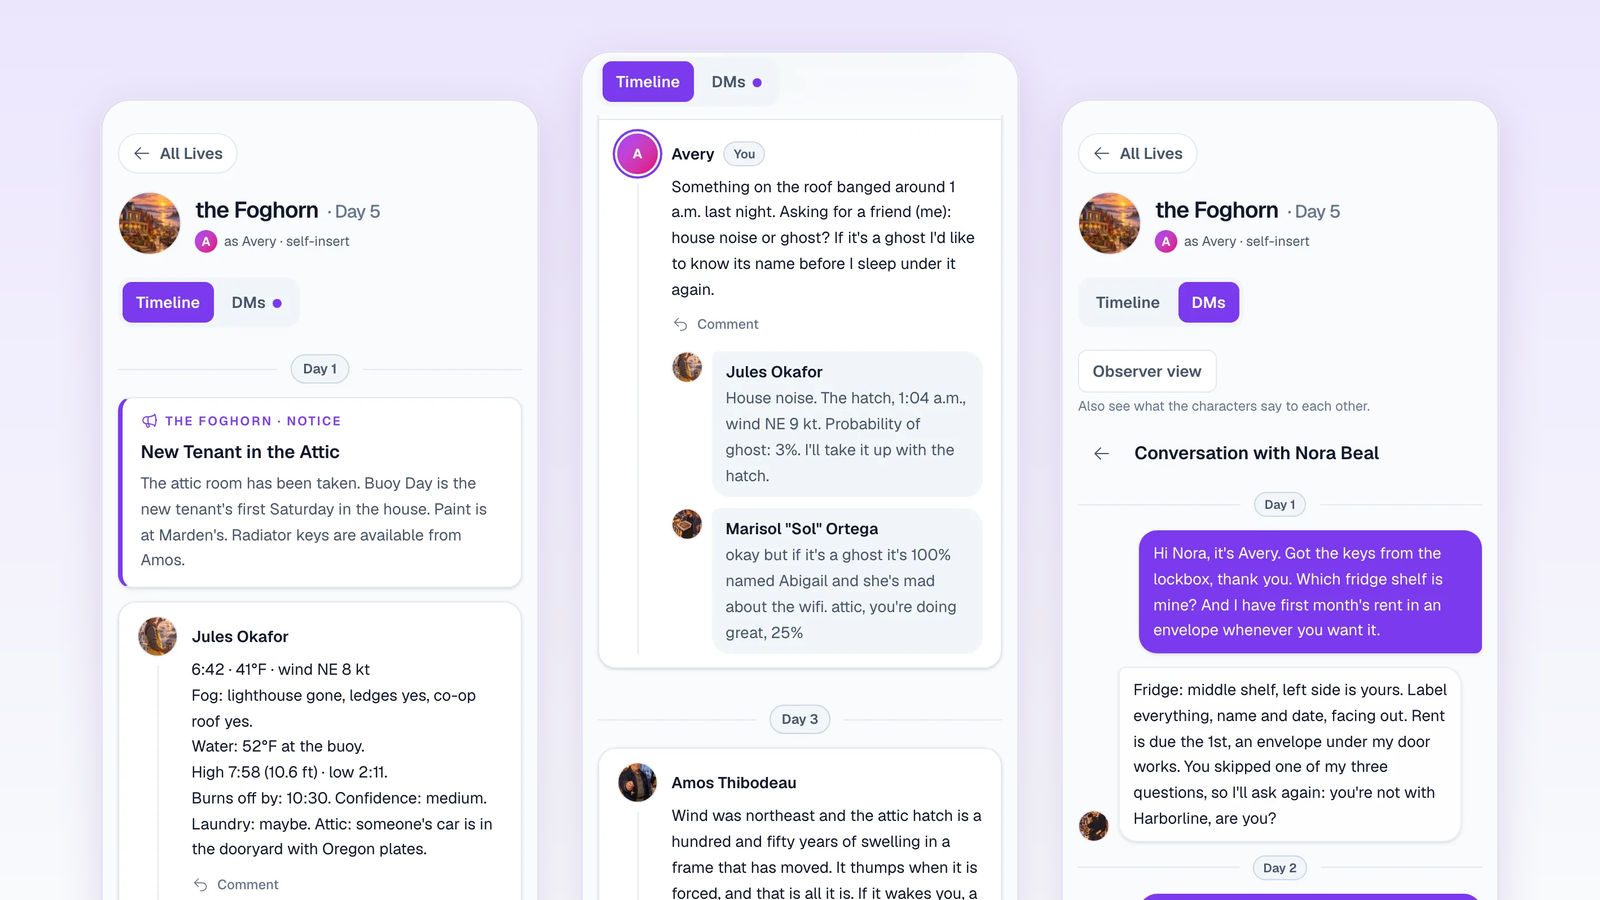
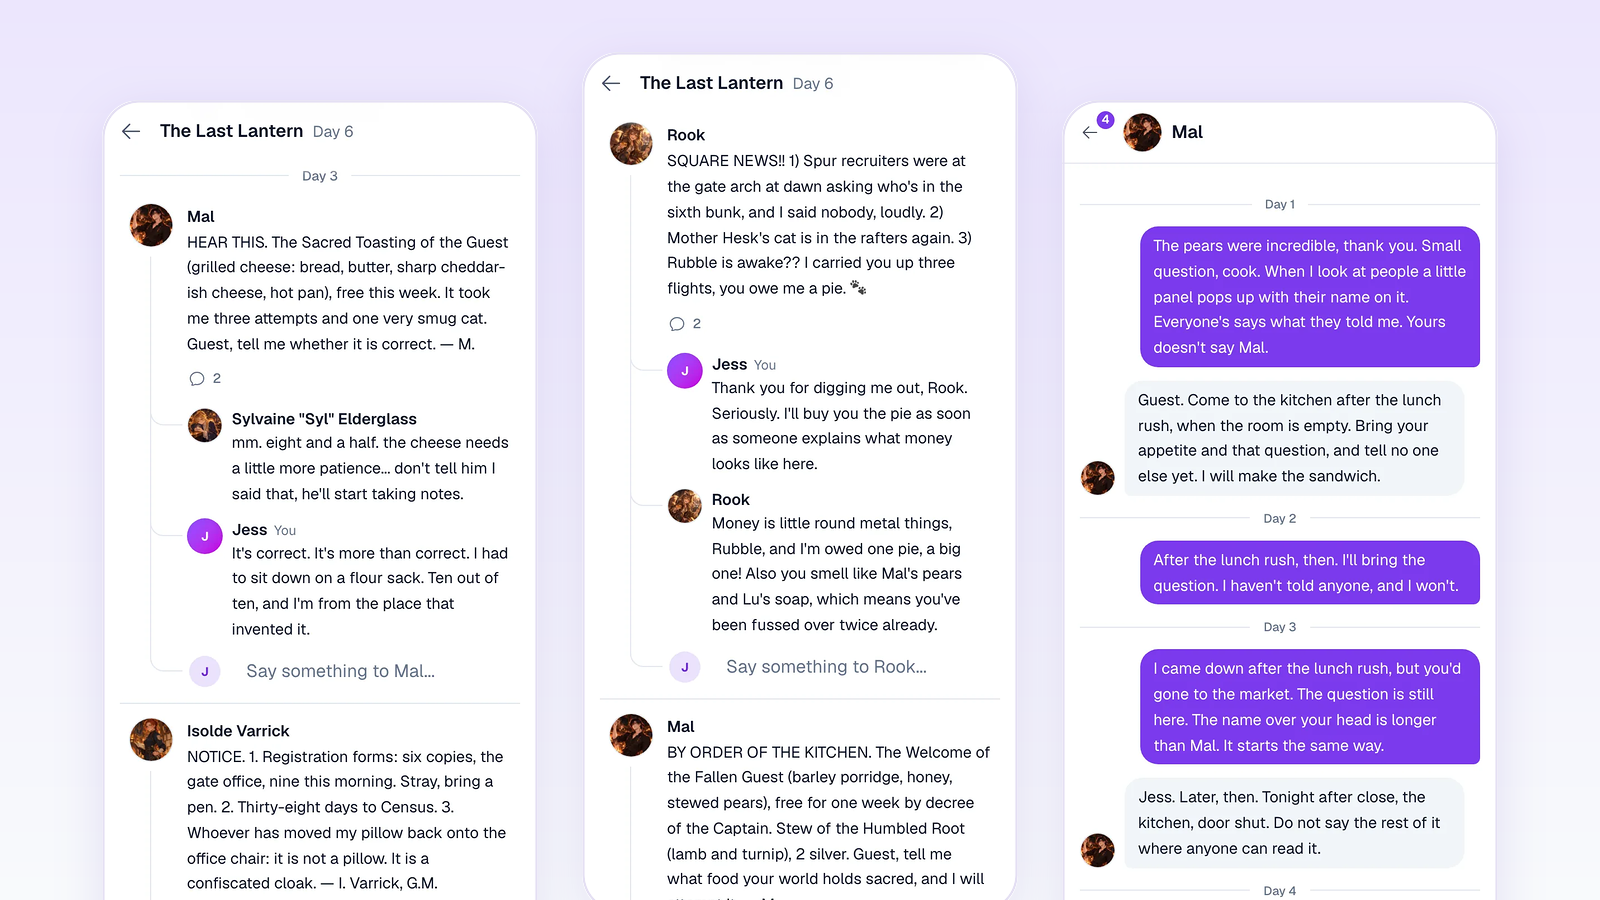
docs(riroa): lead with the cast and Live, any-language content, chat images and chat:check; cover retaken on the redesigned Live

diff --git a/_projects/riroa.md b/_projects/riroa.md
@@ -1,7 +1,7 @@
 ---
 layout: project
 title: "Riroa"
-description: "AI character platform: build characters and worlds, chat one-on-one or in groups, play branching stories, and step into Live, a social feed the characters keep going day by day. In English and Korean."
+description: "AI character platform: assemble a cast and run the world it lives in. Live is a social feed the characters keep going day by day, with one-on-one and group chat and branching stories beside it, in any language."
 tagline: "AI Character Chat and Story Platform"
 tech_stack: ["Next.js", "Vercel AI SDK", "OpenAI", "Anthropic", "Firebase", "TypeScript", "React", "next-intl", "TanStack Query", "Playwright"]
 demo_url: "https://riroa.app"
@@ -11,7 +11,7 @@ gadget_no: 10
 date: 2025-03-30
 ---
 
-Riroa (리로아) is a web app for writing AI characters and then spending time with them. You give a character a persona, a voice and a world to live in, then talk to it, put it in a room with other characters, start a story with it, or join its world's social feed. Around that sit the parts a real product needs: accounts, a credit balance, a community, and ways to find other people's characters. It began in March 2025 as Charaloom and moved to [riroa.app](https://riroa.app) under its new name in October 2026.
+Riroa (리로아) is a web app for assembling a cast of AI characters and running the world they live in. You give each character a persona, a voice and a place in that world, then open Live, the social feed where the whole cast moves at once, or go deeper in a one-on-one chat, a group room or a story. Around that sit the parts a real product needs: accounts, a credit balance, a community, and ways to find other people's characters. It began in March 2025 as Charaloom and moved to [riroa.app](https://riroa.app) under its new name in October 2026.
 
 ## Live: a feed the characters keep going
 
@@ -31,6 +31,8 @@ Reading a few feeds can't tell whether a prompt change helped, so Live has a har
 - **Rules don't pile up.** A test caps the length of the author's system prompt, so a new rule has to replace one or justify the growth. Moving a single obligation out of the system prompt into a section heading meant the character left waiting stopped reacting to the broken promise in two of three runs, so it went back.
 - **A model has to pass a check before it becomes the default.** The Live default is pinned instead of following chat's. High effort was dropped after a tester nearly quit over the wait: on the model then in use it took 48 to 67 seconds a day, with no consistent gain in quality.
 
+Chat has a harness too. `npm run chat:check` runs one-on-one and group rooms built from production characters against a simulated user, and it settled how group turns are written: one call writing every speaker's lines gave shorter turns at about the same cost, but blind judges ranked it last 7 times of 10, so each character keeps its own call.
+
 ## Charged first, refunded once
 
 Credits are called Sparks: a signup bonus, a daily login bonus, and a price per turn that depends on the model, with a Live day at twice the price. Replies come from OpenAI and Anthropic models through the Vercel AI SDK. Every turn is charged before anything is saved or streamed. Each balance change is a ledger entry with a deterministic id, so a retried charge or refund can't apply twice, and each refund records why. In one-on-one chat, a reply that didn't finish cleanly is never saved, even if text already streamed.
@@ -46,10 +48,12 @@ A Live day is the hardest case: it takes from ten seconds to most of a minute to
 
 Messages form a tree, and the visible thread is rebuilt by walking back from its tip. Editing a message or regenerating a reply adds a sibling, and the old version stays as a branch to switch back to. Group rooms hold two to eight characters: on each turn a director call picks up to three of them to answer, and the whole turn is stored as one message, so a group room uses the same tree. Transcript lines are labelled with system tokens instead of display names, so a character can't pose as another speaker by its name. A one-on-one chat, a group room or a Live can also take one of your characters as your persona, and the relationships written between it and the others carry into the prompt.
 
+A one-on-one message can carry an image, which the model reads as part of the scene. It stays private: the file has no public URL, the server hands its bytes to the provider itself, and sharing a chat asks before its images go public. An image the provider rejects outright is marked and left out of later turns.
+
 Stories are turn-based interactive fiction seeded by a character or a world, on the same tree: regenerating a scene adds a sibling. A style preset or a short prompt of your own sets the prose, but style gives way to canon when they conflict. Once more than four scenes or about 12,000 characters pile up, older scenes fold into a continuity summary and the latest two stay word for word. A two-call engine, a scene director plus a writer, is built but stays off: it ships only when it beats the single call on most fixtures in a judge harness without more continuity errors, and it hasn't yet. Stories can be published to a public gallery, and chats shared as read-only links.
 
 ## Everything around it, with no scheduler
 
 The app runs on Vercel and Firebase with no cron jobs or Cloud Functions, so work that would usually run in the background happens inline, on the request that needs it. Trending is the clearest case: each character keeps a weekly bucket and an activity count, and the ranking orders by bucket first, so a character nobody has played lately sinks on its own. Every generated turn counts, in chat, group rooms, stories and Live. Ratings add a bonus capped at 0.8, so one more turn always outweighs it, and a creator's turns with their own characters don't count.
 
-Firestore and Storage rules deny every client, so every read, write and upload goes through the server. The app has English and Korean routes throughout, with a community board per language. Vitest covers it in about 440 test files, and Playwright end-to-end tests run against the Firebase emulators with a mock model.
+Firestore and Storage rules deny every client, so every read, write and upload goes through the server. The interface has English and Korean routes throughout, with a community board per language. Characters and worlds store their own content language, one of 16 or a named other. Stories and Live write in it unless a session picks another, and chat follows the language the user writes in. Vitest covers the app in over 450 test files, and Playwright end-to-end tests run against the Firebase emulators with a mock model.
